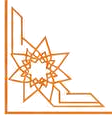
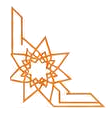
Fix corner ornaments: remove duplicate stroke, mirror evenly

Changed region(s): [[0.0268, 0.0, 1.0, 1.0]]

diff --git a/index.html b/index.html
@@ -120,8 +120,8 @@ h1{font-family:var(--serif);color:var(--orange);font-weight:900;text-transform:u
 .details{font-size:clamp(.56rem,1.95vw,.82rem);font-weight:400;white-space:nowrap;margin:0}
 .details span{color:var(--orange);margin:0 .6em;font-weight:600}
 .sign{width:clamp(110px,23vw,150px);height:auto;margin-top:5%}
-.corner{position:absolute;bottom:20px;width:clamp(55px,13vw,80px);height:auto}
-.corner.l{left:20px}.corner.r{right:20px}
+.corner{position:absolute;bottom:18.5px;width:80px;height:auto}
+.corner.l{left:17px}.corner.r{right:17px}
 .close{position:absolute;top:6px;right:6px;width:30px;height:30px;border-radius:50%;border:0;background:#fbe3cc;color:var(--orange-d);
   font-size:1.1rem;cursor:pointer;z-index:5}
 .close:hover{background:var(--orange);color:#fff}
